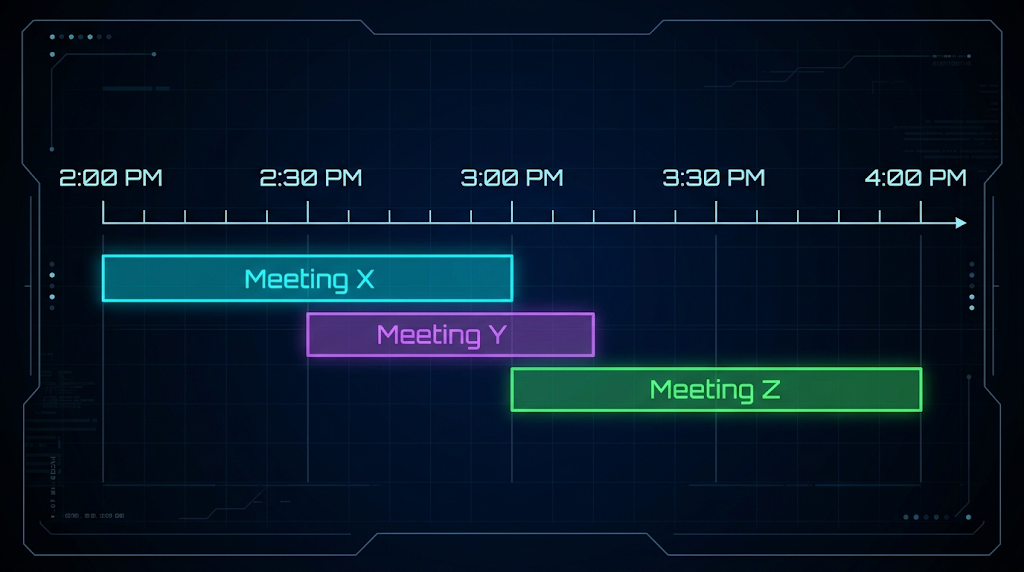
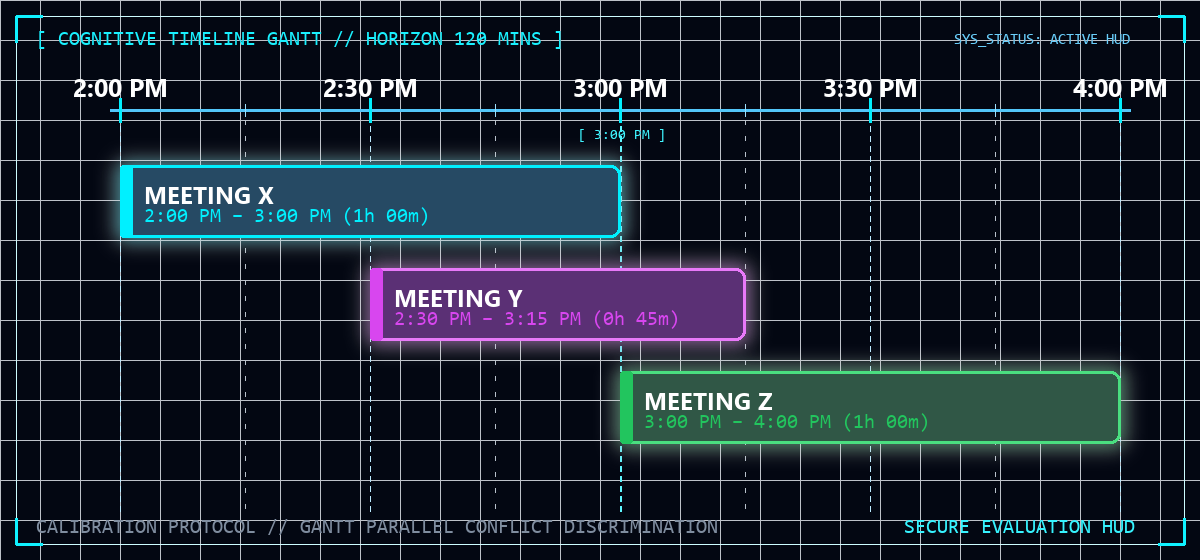
fix(assessment): redesign schedule timeline gantt matrix for maximum legibility and contrast

diff --git a/client/utils/constants.jsx b/client/utils/constants.jsx
@@ -563,11 +563,11 @@ export const COGNITIVE_QUESTIONS = [
     title: 'Schedule Conflict Resolution',
     text: 'Analyze the timeline schedule. Meeting X runs 2:00–3:00 PM, Meeting Y runs 2:30–3:15 PM, and Meeting Z runs 3:00–4:00 PM. Which two meetings can be fully attended without overlap?',
     visual: (
-      <div style={{ display: 'flex', justifyContent: 'center' }}>
+      <div style={{ display: 'flex', justifyContent: 'center', width: '100%' }}>
         <img 
           src="/assessments/schedule_timeline.png" 
           alt="Schedule Timeline Conflict" 
-          style={{ maxHeight: '200px', maxWidth: '100%', borderRadius: '10px', border: '1px solid rgba(0, 240, 255, 0.3)', boxShadow: '0 0 20px rgba(0, 240, 255, 0.15)' }} 
+          style={{ width: '100%', maxHeight: '235px', objectFit: 'contain', borderRadius: '10px', border: '1px solid rgba(0, 240, 255, 0.35)', boxShadow: '0 0 20px rgba(0, 240, 255, 0.2)' }} 
         />
       </div>
     ),
